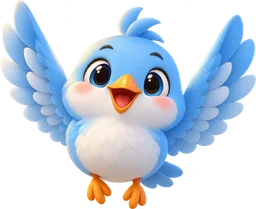
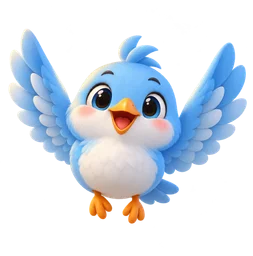
feat: the title birds flap with real wing frames and blink
Three generated frames (wings mid, down, and a blink) replace the squash tween; gen-asset keeps
the canvas (`preserveCanvas`) so the frames share one anchor.

diff --git a/apps/web/src/phaser/objects/Title.ts b/apps/web/src/phaser/objects/Title.ts
@@ -4,6 +4,7 @@ import { titleStyle } from '@/phaser/assets';
 const WORDS = ['Chơi', 'Chút', 'Bài'];
 const TEXT_SIZE = 84;
 const ROPE = 70;
+const BIRD_FRAMES = ['bird', 'bird-mid', 'bird-down', 'bird-mid'] as const;
 
 /**
  * The game's name, one word at a time, each floating up and down on its own and pulled up by
@@ -49,17 +50,30 @@ export class Title extends Phaser.GameObjects.Container {
       bird.setScale(80 / bird.width);
       // The feet sit near the bottom of the image; hang the rope from them.
       bird.y -= bird.displayHeight * 0.4;
+      const birdY = bird.y;
       birdTop = Math.min(birdTop, bird.y - bird.displayHeight / 2);
       // A magic light orb hides the knot where the rope meets the word.
       const orb = scene.add.image(knotX, textTop, 'orb').setDisplaySize(46, 46);
       word.add([vine, bird, text, orb]);
-      // Wings flap: a quick squash.
-      scene.tweens.add({
-        targets: bird,
-        scaleY: bird.scaleY * 0.82,
-        duration: 140 + i * 10,
-        yoyo: true,
-        repeat: -1,
+      // Change wing poses while the body stays at one size. Blink briefly at the top of a flap.
+      let flap = 0;
+      let nextBlink = scene.time.now + 2400 + i * 1100;
+      scene.time.delayedCall(i * 60, () => {
+        scene.time.addEvent({
+          delay: 90,
+          loop: true,
+          callback: () => {
+            flap = (flap + 1) % BIRD_FRAMES.length;
+            if (flap === 0 && scene.time.now >= nextBlink) {
+              bird.setTexture('bird-blink');
+              nextBlink = scene.time.now + Phaser.Math.Between(3200, 5700);
+            } else {
+              bird.setTexture(BIRD_FRAMES[flap] ?? 'bird');
+            }
+            // The generated down pose sits slightly higher in its canvas; line up the face/feet.
+            bird.y = birdY + (flap === 2 ? 2.5 : 0);
+          },
+        });
       });
       scene.tweens.add({
         targets: orb,

diff --git a/apps/web/src/phaser/assets.ts b/apps/web/src/phaser/assets.ts
@@ -18,6 +18,9 @@ const IMAGES = {
   'sign-hover': 'shared',
   orb: 'shared',
   bird: 'shared',
+  'bird-mid': 'shared',
+  'bird-down': 'shared',
+  'bird-blink': 'shared',
   vine: 'shared',
   lock: 'shared',
   arrow: 'shared',
